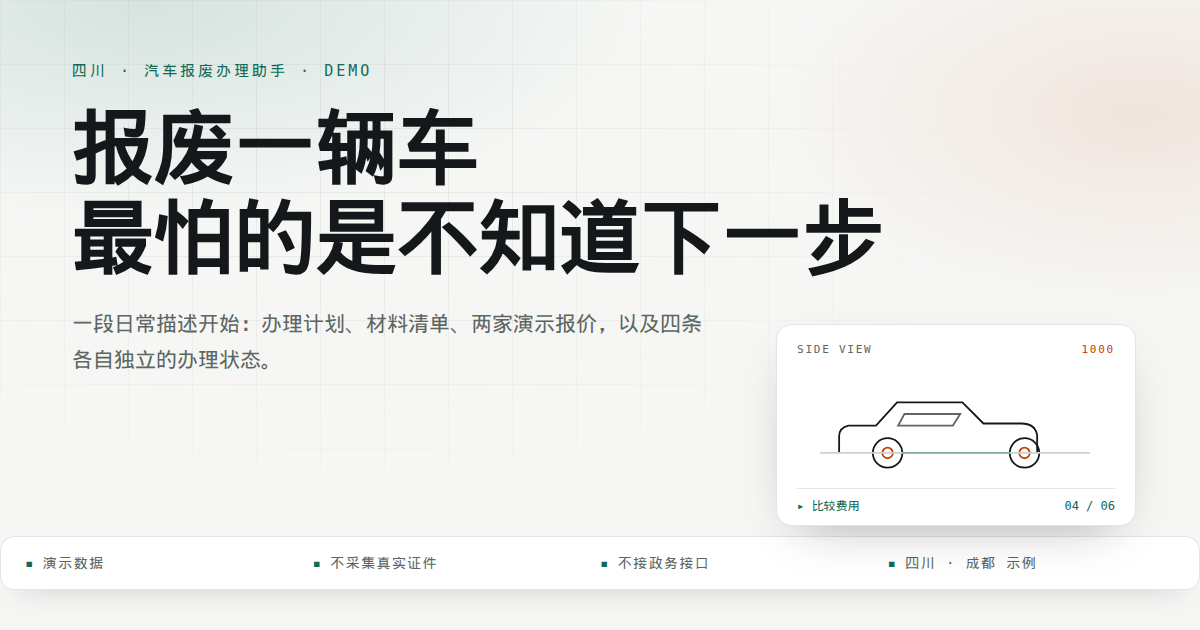
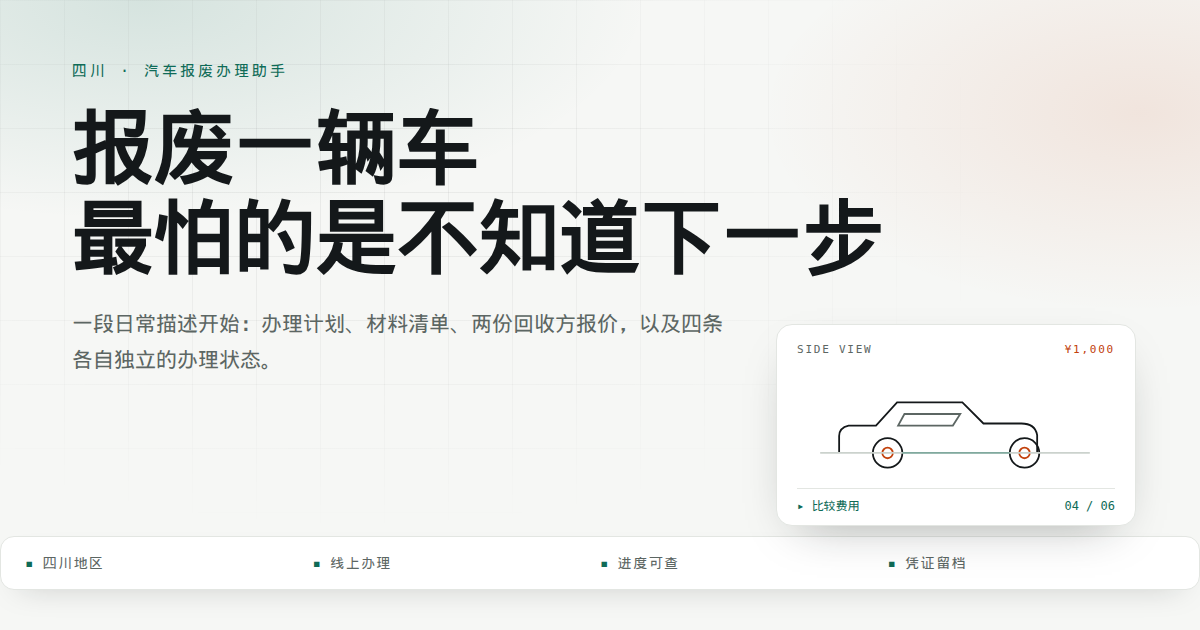
chore: 去掉界面上的「示例」字样与内部「本版」措辞，OG 换正式版
- start 页两处示例提示改为「点选后填入 / 常见情况暂未加载」
- 5 处「本版」改为「本服务」，避免露出内部文档口气
- public/og.png 重做：去掉 DEMO 字样与「演示数据」条，改为四川地区/线上办理/进度可查/凭证留档

diff --git a/src/app/start/page.tsx b/src/app/start/page.tsx
@@ -168,7 +168,7 @@ export default function StartPage() {
           直接选择情况
         </SectionTitle>
         <p className="mb-3 text-sm text-dim">
-          示例只填入描述框，需要你确认后才生成计划，不会自动创建案件。
+          点选后只填入描述框，需要你确认后才生成计划，不会自动创建案件。
         </p>
         <div className="grid gap-3 sm:grid-cols-3">
           {scenarios.map((scenario) => (
@@ -190,7 +190,7 @@ export default function StartPage() {
           ))}
           {scenarios.length === 0 && (
             <p className="text-sm text-dim">
-              示例暂未加载。仍可在上方直接描述，规则解析不依赖示例。
+              常见情况暂未加载，仍可在上方直接描述，规则解析不依赖它们。
             </p>
           )}
         </div>

diff --git a/src/lib/domain/status.ts b/src/lib/domain/status.ts
@@ -102,7 +102,7 @@ export const TRACK_META: Record<string, { label: string; next: string }> = {
   },
   subsidy: {
     label: "补贴",
-    next: "补贴与回收净额独立，本版只给待核实清单，不计算金额。",
+    next: "补贴与回收净额独立，本服务只给待核实清单，不计算金额。",
   },
 };
 
@@ -166,7 +166,7 @@ export function deriveTracks(input: TrackInput): TrackState[] {
       tone: subsidyTone,
       basis:
         input.intent === "replace"
-          ? "补贴待办与回收净额独立；本版不计算补贴金额。"
+          ? "补贴待办与回收净额独立；本服务不计算补贴金额。"
           : "当前目标为仅报废，补贴待办未参与排序。",
       next: TRACK_META.subsidy.next,
     },

diff --git a/src/app/subsidy/page.tsx b/src/app/subsidy/page.tsx
@@ -143,7 +143,7 @@ export default function SubsidyPage() {
         换新补贴：先核对，不承诺
       </h1>
       <p className="mt-2 max-w-2xl text-sm text-dim">
-        补贴与回收净额完全独立。本版只给出“资格待核实”和缺项清单，不计算补贴金额，也不给出通过结论。
+        补贴与回收净额完全独立。本服务只给出“资格待核实”和缺项清单，不计算补贴金额，也不给出通过结论。
       </p>
 
       <div className="mt-3 flex flex-wrap gap-2">

diff --git a/src/lib/services/subsidy.ts b/src/lib/services/subsidy.ts
@@ -161,7 +161,7 @@ export async function getSubsidyView(caseId: string): Promise<SubsidyView> {
     materials: SUBSIDY_MATERIALS,
     stages: PURCHASE_STAGES,
     sources: ["S4", "S5", "S7"],
-    note: "本版只给出待核实清单，不计算补贴金额，也不给出资格通过结论。回收净额不受补贴状态影响。",
+    note: "本服务只给出待核实清单，不计算补贴金额，也不给出资格通过结论。回收净额不受补贴状态影响。",
   };
 }
 

diff --git a/src/lib/services/documents.ts b/src/lib/services/documents.ts
@@ -22,7 +22,7 @@ export const DOCUMENT_META: Record<DocumentType, { label: string; hint: string }
   },
   AUTHORIZATION: {
     label: "授权与代办核对",
-    hint: "家人协助办理时，核对车主授权与代办材料；本版不采集真实授权书。",
+    hint: "家人协助办理时，核对车主授权与代办材料；本服务不采集真实授权书。",
   },
 };
 
